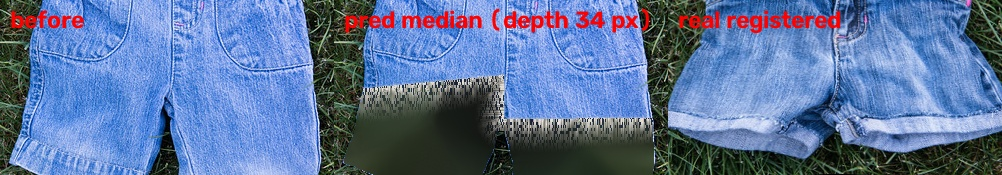
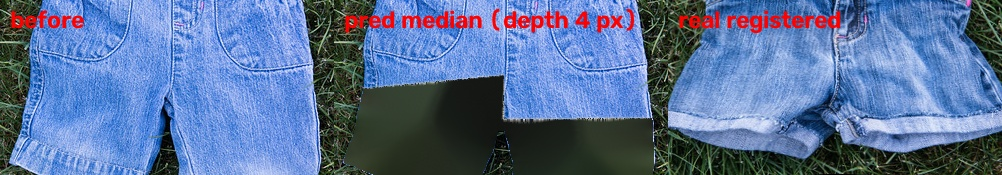
State-conditional fringe prior (after_cut vs after_wash); LOO batch rerun

Changed region(s): [[0.3403, 0.4286, 0.6497, 0.8286], [0.5569, 0.0286, 0.6497, 0.2]]

diff --git a/tools/run_pair.py b/tools/run_pair.py
@@ -21,6 +21,7 @@ p.add_argument("--before", required=True); p.add_argument("--after", required=Tr
 p.add_argument("--before-lm"); p.add_argument("--after-lm"); p.add_argument("--mm-per-px", type=float, default=None); p.add_argument("--seed", type=int, default=1)
 p.add_argument("--prior", help="data/priors/fringe.json: predict fringe depth from the prior (depth_rel_mean * waist width) instead of reading it off the after-photo")
 p.add_argument("--exclude", help="pair id to EXCLUDE from the prior (leave-one-out: never let a pair predict itself)")
+p.add_argument("--state", choices=["after_cut", "after_wash"], default="after_wash", help="what the after-photo shows; the fringe prior is conditional on it")
 p.add_argument("--cropped", default="", help="comma list of 'before'/'after' that were manually cropped: frame-edge contact becomes a flag, not a rejection")
 a = p.parse_args(); os.makedirs(a.out, exist_ok=True); O = a.out
 bf = cv2.imread(a.before); af = cv2.imread(a.after); assert bf is not None and af is not None
@@ -120,11 +121,12 @@ cut = backdrop_fill(bf, bmask, removed)   # backdrop-only inpainting, no fabric 
 depth_measured_px = np.mean([L["fringe_depth_px"] for L in legs.values() if L])
 if a.prior:
     pr = json.load(open(a.prior)); ww = abs(lmb["waist_right"][0] - lmb["waist_left"][0])
-    rows_ = [x for x in pr.get("pairs", []) if x["pair"] != a.exclude]
-    rel = np.mean([x["depth_rel"] for x in rows_]) if rows_ else pr["depth_rel_mean"]
-    if pr.get("unpaired", {}).get("n"):                      # blend with the unpaired after-wash distribution
+    rows_ = [x for x in pr.get("pairs", []) if x["pair"] != a.exclude and x["kind"] == a.state]      # same STATE, leave-one-out
+    rel = np.mean([x["depth_rel"] for x in rows_]) if rows_ else 0.0
+    if a.state == "after_wash" and pr.get("unpaired", {}).get("n"):   # unpaired samples are after-wash only
         nu = pr["unpaired"]["n"]; rel = (rel * len(rows_) + pr["unpaired"]["depth_rel_mean"] * nu) / (len(rows_) + nu)
-    depth_px = rel * ww; depth_source = f"prior (n={len(rows_)}{' after excluding self' if a.exclude else ''}{', INSUFFICIENT' if len(rows_) < 5 else ''})"
+    n_eff = len(rows_) + (pr.get("unpaired", {}).get("n", 0) if a.state == "after_wash" else 0)
+    depth_px = rel * ww; depth_source = f"prior[{a.state}] (n={n_eff}{' after excluding self' if a.exclude else ''}{', INSUFFICIENT' if n_eff < 5 else ''})"
 else:
     depth_px = depth_measured_px; depth_source = "measured from after-photo (NOT a prediction)"
 depth_mm = depth_px * mmpp

diff --git a/tools/fit_fringe.py b/tools/fit_fringe.py
@@ -28,8 +28,9 @@ prior = {"n": len(rows), "insufficient": len(rows) < 5, "pairs": rows}
 if rows:
     for k in ("depth_rel", "depth_px"):
         v = [r[k] for r in rows]; prior[k + "_mean"] = st.mean(v); prior[k + "_sd"] = st.pstdev(v) if len(v) > 1 else None
-    washed = [r["depth_rel"] for r in rows if r["kind"] == "after_wash"]
-    if washed: prior["depth_rel_mean_after_wash"] = st.mean(washed)
+    for kind in ("after_wash", "after_cut"):
+        v = [r["depth_rel"] for r in rows if r["kind"] == kind]
+        if v: prior[f"depth_rel_mean_{kind}"] = st.mean(v); prior[f"n_{kind}"] = len(v)
     if len(rows) >= 2:
         print("leave-one-out depth prediction (px):")
         for i, r in enumerate(rows):
@@ -38,7 +39,9 @@ if rows:
 up = OUT / "fringe_unpaired.json"
 if up.exists():
     u = json.load(open(up)); prior["unpaired"] = {"n": u["n"], "depth_rel_mean": u["depth_rel_mean"], "depth_rel_sd": u["depth_rel_sd"]}
-    if u["n"] and rows:
-        w_p, w_u = len(rows), u["n"]; prior["depth_rel_mean_combined"] = (prior["depth_rel_mean"] * w_p + u["depth_rel_mean"] * w_u) / (w_p + w_u); prior["n_combined"] = w_p + w_u
-        prior["insufficient"] = prior["n_combined"] < 5
+    # unpaired samples are all AFTER-WASH: they only inform the after_wash prior
+    if u["n"]:
+        wp = prior.get("n_after_wash", 0); mp = prior.get("depth_rel_mean_after_wash", 0.0)
+        prior["depth_rel_mean_after_wash_combined"] = (mp * wp + u["depth_rel_mean"] * u["n"]) / (wp + u["n"]); prior["n_after_wash_combined"] = wp + u["n"]
+        prior["insufficient"] = prior["n_after_wash_combined"] < 5 or prior.get("n_after_cut", 0) < 3
 (OUT / "fringe.json").write_text(json.dumps(prior, indent=1)); print(json.dumps({k: v for k, v in prior.items() if k != "pairs"}, indent=1))

diff --git a/tools/run_pairs_batch.py b/tools/run_pairs_batch.py
@@ -31,7 +31,7 @@ for line in (ROOT / "data/external/pairs_validation.jsonl").read_text().splitlin
         h8 = os.path.splitext(before)[0].rsplit("_", 1)[-1]
         mmpp = next((i.get("mm_per_px") for i in rec["images"] if h8 == hashlib.sha1(i["url"].encode()).hexdigest()[:8] and i.get("mm_per_px")), None)
     cmd = [sys.executable, str(ROOT / "tools/run_pair.py"), "--before", before_p, "--after", after_p, "--out", str(od)] + (["--cropped", cropped] if cropped else []) + (["--mm-per-px", str(mmpp)] if mmpp else [])
-    if os.environ.get("PAIRS_USE_PRIOR") and (ROOT / "data/priors/fringe.json").exists(): cmd += ["--prior", str(ROOT / "data/priors/fringe.json"), "--exclude", pid]   # leave-one-out
+    if os.environ.get("PAIRS_USE_PRIOR") and (ROOT / "data/priors/fringe.json").exists(): cmd += ["--prior", str(ROOT / "data/priors/fringe.json"), "--exclude", pid, "--state", kind]   # leave-one-out, state-conditional
     r = subprocess.run(cmd, capture_output=True, text=True)
     ok = r.returncode == 0
     metrics = None

diff --git a/experiments/pairs_prior/SUMMARY.md b/experiments/pairs_prior/SUMMARY.md
@@ -2,20 +2,20 @@
 
 | page | title | after | status | sil IoU pred / crop / no-op | chamfer px pred / crop | edge ΔE pred / crop | fringe IoU pred / no-op |
 |---|---|---|---|---|---|---|---|
-| b630a78c19 | How To Make Jeans Into Shorts The Easy W | after_cut | ok | 0.46 / 0.46 / 0.54 | 359 / 368 | 17.6 / 17.4 | 0.03 / 0.58 |
+| b630a78c19 | How To Make Jeans Into Shorts The Easy W | after_cut | ok | 0.46 / 0.46 / 0.54 | 364 / 368 | 17.5 / 17.4 | 0.02 / 0.58 |
 | 660bef67bf | Cómo hacer shorts con jeans viejos | after_cut | FAIL: REJECT: degenerate cut: removed fraction 0.00 | | | | |
 | 85d48013a2 | Tutorial: Aus Lang mach Kurz – Jeanshose | after_cut | FAIL: REJECT: after: garment touches the frame edge (cropped photo | | | | |
-| 4bfef03bd7 | DIY Denim Shorts | Thrifted Jeans Into S | after_wash | ok | 0.78 / 0.75 / 0.29 | 16 / 22 | 22.8 / 23.3 | 0.43 / 0.04 |
+| 4bfef03bd7 | DIY Denim Shorts | Thrifted Jeans Into S | after_wash | ok | 0.78 / 0.75 / 0.29 | 16 / 22 | 22.8 / 23.3 | 0.46 / 0.04 |
 | ee4bf13a3c | Magnolia Mamas: Fashion Fix: DIY Distres | after_wash | FAIL: REJECT: before: widest top row is not a single waistband run | | | | |
-| 8d9f0df4ad | This summer's DIY cut-off jeans shorts-- | after_cut | ok | 0.92 / 0.94 / 0.42 | 25 / 9 | 21.1 / 21.5 | 0.27 / 0.02 |
+| 8d9f0df4ad | This summer's DIY cut-off jeans shorts-- | after_cut | ok | 0.93 / 0.94 / 0.42 | 15 / 9 | 21.0 / 21.5 | 0.33 / 0.02 |
 | 963fcdd264 | DIY; Mom Jeans to High Waisted Shorts |  | after_cut | FAIL: REJECT: before: widest top row is not a single waistband run | | | | |
 | d52a3ff876 | Under Peach Trees: D.I.Y. Jeans to Short | after_cut | FAIL: REJECT: before: widest top row is not a single waistband run | | | | |
-| 443d1d4658 | Create Kids Couture: Upcycle Old Jeans i | after_cut | ok | 0.90 / 0.92 / 0.59 | 24 / 13 | 21.1 / 18.3 | 0.09 / 0.00 |
+| 443d1d4658 | Create Kids Couture: Upcycle Old Jeans i | after_cut | ok | 0.91 / 0.92 / 0.59 | 19 / 13 | 20.2 / 18.3 | 0.14 / 0.00 |
 | 3082dfddc1 | DIY style: perfectly distressed jean sho | after_wash | FAIL: REJECT: degenerate cut: removed fraction 0.88 | | | | |
 | 22a5857a0c | Comment transformer son jeans en short - | after_cut | FAIL: REJECT: after: garment touches the frame edge (cropped photo | | | | |
 | f9c0e56308 | 7 Easy Steps to: DIY Denim Shorts - 51li | after_wash | FAIL: REJECT: degenerate cut: removed fraction 0.76 | | | | |
-| 2691c1a8d0 | Jeans Upcycling: Shorts aus alter Jeans  | after_cut | ok | 0.70 / 0.69 / 0.58 | 24 / 27 | 15.7 / 15.1 | 0.42 / 0.10 |
+| 2691c1a8d0 | Jeans Upcycling: Shorts aus alter Jeans  | after_cut | ok | 0.70 / 0.69 / 0.58 | 25 / 27 | 15.3 / 15.1 | 0.30 / 0.10 |
 | 5cd6cff343 | Transformer un jean en short façon BD -  | after_cut | FAIL: REJECT: before: widest top row is not a single waistband run | | | | |
-| 26b1041d00 | Upcycle Jeans Into Shorts - Sewing Novic | after_cut | ok | 0.74 / 0.69 / 0.73 | 35 / 46 | 31.6 / 34.8 | 0.22 / 0.48 |
-| f542c57cec | DIY High Waisted Denim Shorts, Step-by-S | after_wash | ok | 0.70 / 0.68 / 0.51 | 116 / 128 | 28.7 / 26.8 | 0.15 / 0.22 |
+| 26b1041d00 | Upcycle Jeans Into Shorts - Sewing Novic | after_cut | ok | 0.69 / 0.69 / 0.73 | 46 / 46 | 34.6 / 34.8 | 0.01 / 0.48 |
+| f542c57cec | DIY High Waisted Denim Shorts, Step-by-S | after_wash | ok | 0.70 / 0.68 / 0.51 | 115 / 128 | 28.8 / 26.8 | 0.17 / 0.22 |
 | 2e2063b93f | DIY: Cutoff Shorts - The Fitnessista | after_cut | FAIL: REJECT: after: widest top row is not a single waistband run  | | | | |

diff --git a/experiments/pairs_prior/REPORT.md b/experiments/pairs_prior/REPORT.md
@@ -2,19 +2,19 @@
 
 | pair | reg resid | sil_iou_vs_real pred / crop / no-op | hem_chamfer pred / crop / no-op | dE_edge_band_vs_real pred / crop / no-op | fringe_iou_vs_real pred / crop / no-op | fringe_profile_dist pred / crop / no-op |
 |---|---|---|---|---|---|---|
-| 2691c1a8d0 | 86.8 | 0.70 / 0.69 / 0.58 | 24.29 / 27.28 / 100.45 | 15.72 / 15.05 / 17.47 | 0.42 / 0.00 / 0.10 | 0.02 / 0.06 / 0.94 |
-| 26b1041d00 | 14.6 | 0.74 / 0.69 / 0.73 | 34.56 / 46.18 / 48.06 | 31.55 / 34.84 / 25.41 | 0.22 / 0.00 / 0.48 | 0.32 / 0.41 / 0.59 |
-| 443d1d4658 | 6.4 | 0.90 / 0.92 / 0.59 | 23.81 / 13.44 / 190.55 | 21.13 / 18.34 / 21.37 | 0.09 / 0.00 / 0.00 | 0.04 / 0.00 / 1.00 |
-| 4bfef03bd7 | 42.0 | 0.78 / 0.75 / 0.29 | 15.50 / 21.99 / 503.38 | 22.78 / 23.33 / 20.45 | 0.43 / 0.00 / 0.04 | 0.00 / 0.03 / 0.97 |
-| 8d9f0df4ad | 31.2 | 0.92 / 0.94 / 0.42 | 24.67 / 8.66 / 303.39 | 21.06 / 21.53 / 22.66 | 0.27 / 0.00 / 0.02 | 0.03 / 0.01 / 0.99 |
-| b630a78c19 | 698.7 | 0.46 / 0.46 / 0.54 | 358.69 / 367.66 / 296.25 | 17.64 / 17.42 / 16.36 | 0.03 / 0.00 / 0.58 | 0.60 / 0.63 / 0.37 |
-| f542c57cec | 61.2 | 0.70 / 0.68 / 0.51 | 116.43 / 127.89 / 460.82 | 28.72 / 26.75 / 27.82 | 0.15 / 0.00 / 0.22 | 0.15 / 0.19 / 0.81 |
+| 2691c1a8d0 | 86.8 | 0.70 / 0.69 / 0.58 | 25.20 / 27.28 / 100.45 | 15.28 / 15.05 / 17.47 | 0.30 / 0.00 / 0.10 | 0.03 / 0.06 / 0.94 |
+| 26b1041d00 | 14.6 | 0.69 / 0.69 / 0.73 | 45.62 / 46.18 / 48.06 | 34.57 / 34.84 / 25.41 | 0.01 / 0.00 / 0.48 | 0.41 / 0.41 / 0.59 |
+| 443d1d4658 | 6.4 | 0.91 / 0.92 / 0.59 | 19.28 / 13.44 / 190.55 | 20.20 / 18.34 / 21.37 | 0.14 / 0.00 / 0.00 | 0.03 / 0.00 / 1.00 |
+| 4bfef03bd7 | 42.0 | 0.78 / 0.75 / 0.29 | 16.08 / 21.99 / 503.38 | 22.79 / 23.33 / 20.45 | 0.46 / 0.00 / 0.04 | 0.00 / 0.03 / 0.97 |
+| 8d9f0df4ad | 31.2 | 0.93 / 0.94 / 0.42 | 15.24 / 8.66 / 303.39 | 21.02 / 21.53 / 22.66 | 0.33 / 0.00 / 0.02 | 0.01 / 0.01 / 0.99 |
+| b630a78c19 | 698.7 | 0.46 / 0.46 / 0.54 | 363.58 / 367.66 / 296.25 | 17.49 / 17.42 / 16.36 | 0.02 / 0.00 / 0.58 | 0.62 / 0.63 / 0.37 |
+| f542c57cec | 61.2 | 0.70 / 0.68 / 0.51 | 114.51 / 127.89 / 460.82 | 28.82 / 26.75 / 27.82 | 0.17 / 0.00 / 0.22 | 0.14 / 0.19 / 0.81 |
 
 ## Means and prediction − crop-only deltas
-- sil_iou_vs_real: pred 0.741, crop 0.733, Δ +0.009 (n=7)
-- hem_chamfer: pred 85.420, crop 87.586, Δ -2.165 (n=7)
-- dE_edge_band_vs_real: pred 22.657, crop 22.467, Δ +0.190 (n=7)
-- fringe_iou_vs_real: pred 0.231, crop 0.000, Δ +0.231 (n=7)
-- fringe_profile_dist: pred 0.166, crop 0.191, Δ -0.026 (n=7)
+- sil_iou_vs_real: pred 0.738, crop 0.733, Δ +0.006 (n=7)
+- hem_chamfer: pred 85.646, crop 87.586, Δ -1.940 (n=7)
+- dE_edge_band_vs_real: pred 22.883, crop 22.467, Δ +0.416 (n=7)
+- fringe_iou_vs_real: pred 0.204, crop 0.000, Δ +0.204 (n=7)
+- fringe_profile_dist: pred 0.177, crop 0.191, Δ -0.014 (n=7)
 
 Rule: heuristic thresholds (hemfit/autolm) change only with n >= 5 and this table attached.

diff --git a/experiments/pairs_prior/4bfef03bd7/NOTE.md b/experiments/pairs_prior/4bfef03bd7/NOTE.md
@@ -5,14 +5,14 @@ before: /Users/jefferyhuang/denim-twin/data/external/pair_images/4bfef03bd7_befo
 after: /Users/jefferyhuang/denim-twin/data/external/pair_images/4bfef03bd7_after_wash_44ffba7e.jpeg collage split (stacked) at y=512, kept top
 scale: UNKNOWN (1.0 placeholder; mm values are px)
 landmarks: auto / auto (crotch: prior_legs_touching / gap)
-fringe depth used: 55.7 px from prior (n=3 after excluding self, INSUFFICIENT); measured on after-photo: 23.0 px (fabric/fringe split: SAM)
+fringe depth used: 66.7 px from prior[after_wash] (n=8 after excluding self); measured on after-photo: 23.0 px (fabric/fringe split: SAM)
 hem fit: left: angle -10.4°, depth 31, right: angle 4.5°, depth 15
 registration residual (leave-one-landmark-out): 42.01px
 
 | system | sil IoU | chamfer | edge ΔE | fringe IoU |
 |---|---|---|---|---|
-| pred conservative | 0.767 | 16.7 | 22.9 | 0.261 |
-| pred median | 0.775 | 15.5 | 22.8 | 0.432 |
-| pred aggressive | 0.774 | 18.2 | 22.6 | 0.475 |
+| pred conservative | 0.769 | 16.5 | 22.9 | 0.292 |
+| pred median | 0.776 | 16.1 | 22.8 | 0.459 |
+| pred aggressive | 0.768 | 21.5 | 22.7 | 0.462 |
 | null:no-op | 0.286 | 503.4 | 20.5 | 0.038 |
 | null:crop-only | 0.751 | 22.0 | 23.3 | 0.000 |

diff --git a/experiments/pairs_prior/b630a78c19/NOTE.md b/experiments/pairs_prior/b630a78c19/NOTE.md
@@ -5,14 +5,14 @@ before: /Users/jefferyhuang/denim-twin/data/external/pair_images/b630a78c19_befo
 after: /Users/jefferyhuang/denim-twin/data/external/pair_images/b630a78c19_after_cut_c7a4d702.jpg 
 scale: UNKNOWN (1.0 placeholder; mm values are px)
 landmarks: auto / auto (crotch: gap / gap)
-fringe depth used: 58.6 px from prior (n=4 after excluding self, INSUFFICIENT); measured on after-photo: 30.8 px (fabric/fringe split: SAM)
+fringe depth used: 29.4 px from prior[after_cut] (n=3 after excluding self, INSUFFICIENT); measured on after-photo: 30.8 px (fabric/fringe split: SAM)
 hem fit: left: angle -0.7°, depth 6, right: angle -20.2°, depth 56
 registration residual (leave-one-landmark-out): 41.30px
 
 | system | sil IoU | chamfer | edge ΔE | fringe IoU |
 |---|---|---|---|---|
-| pred conservative | 0.460 | 363.9 | 17.5 | 0.014 |
-| pred median | 0.461 | 358.7 | 17.6 | 0.033 |
-| pred aggressive | 0.462 | 354.9 | 17.7 | 0.051 |
+| pred conservative | 0.459 | 366.1 | 17.4 | 0.007 |
+| pred median | 0.460 | 363.6 | 17.5 | 0.016 |
+| pred aggressive | 0.460 | 361.3 | 17.5 | 0.025 |
 | null:no-op | 0.536 | 296.2 | 16.4 | 0.582 |
 | null:crop-only | 0.459 | 367.7 | 17.4 | 0.000 |

diff --git a/experiments/pairs_prior/2691c1a8d0/NOTE.md b/experiments/pairs_prior/2691c1a8d0/NOTE.md
@@ -5,14 +5,14 @@ before: /Users/jefferyhuang/denim-twin/data/external/pair_images/2691c1a8d0_befo
 after: /Users/jefferyhuang/denim-twin/data/external/pair_images/2691c1a8d0_after_cut_b2330819.jpg 
 scale: UNKNOWN (1.0 placeholder; mm values are px)
 landmarks: auto / auto (crotch: gap / gap)
-fringe depth used: 40.7 px from prior (n=4 after excluding self, INSUFFICIENT); measured on after-photo: 31.8 px (fabric/fringe split: SAM)
+fringe depth used: 20.4 px from prior[after_cut] (n=3 after excluding self, INSUFFICIENT); measured on after-photo: 31.8 px (fabric/fringe split: SAM)
 hem fit: left: angle -36.4°, depth 2, right: angle -48.2°, depth 62
 registration residual (leave-one-landmark-out): 86.85px
 
 | system | sil IoU | chamfer | edge ΔE | fringe IoU |
 |---|---|---|---|---|
-| pred conservative | 0.700 | 25.4 | 15.2 | 0.257 |
-| pred median | 0.703 | 24.3 | 15.7 | 0.421 |
-| pred aggressive | 0.702 | 25.1 | 16.0 | 0.436 |
+| pred conservative | 0.698 | 26.2 | 15.0 | 0.137 |
+| pred median | 0.701 | 25.2 | 15.3 | 0.302 |
+| pred aggressive | 0.703 | 24.1 | 15.4 | 0.379 |
 | null:no-op | 0.579 | 100.5 | 17.5 | 0.101 |
 | null:crop-only | 0.694 | 27.3 | 15.1 | 0.000 |

diff --git a/experiments/pairs_prior/26b1041d00/NOTE.md b/experiments/pairs_prior/26b1041d00/NOTE.md
@@ -5,14 +5,14 @@ before: /Users/jefferyhuang/denim-twin/data/external/pair_images/26b1041d00_befo
 after: /Users/jefferyhuang/denim-twin/data/external/pair_images/26b1041d00_after_cut_38ff38d5.jpg 
 scale: UNKNOWN (1.0 placeholder; mm values are px)
 landmarks: auto / auto (crotch: gap / gap)
-fringe depth used: 33.7 px from prior (n=3 after excluding self, INSUFFICIENT); measured on after-photo: 45.0 px (fabric/fringe split: SAM)
+fringe depth used: 3.5 px from prior[after_cut] (n=2 after excluding self, INSUFFICIENT); measured on after-photo: 45.0 px (fabric/fringe split: SAM)
 hem fit: left: angle -5.4°, depth 64, right: angle -0.7°, depth 26
 registration residual (leave-one-landmark-out): 14.59px
 
 | system | sil IoU | chamfer | edge ΔE | fringe IoU |
 |---|---|---|---|---|
-| pred conservative | 0.706 | 41.7 | 33.3 | 0.086 |
-| pred median | 0.736 | 34.6 | 31.6 | 0.225 |
-| pred aggressive | 0.759 | 28.6 | 30.6 | 0.332 |
+| pred conservative | 0.688 | 46.1 | 34.7 | 0.002 |
+| pred median | 0.690 | 45.6 | 34.6 | 0.010 |
+| pred aggressive | 0.692 | 45.1 | 34.4 | 0.019 |
 | null:no-op | 0.732 | 48.1 | 25.4 | 0.480 |
 | null:crop-only | 0.688 | 46.2 | 34.8 | 0.000 |

diff --git a/experiments/pairs_prior/f542c57cec/NOTE.md b/experiments/pairs_prior/f542c57cec/NOTE.md
@@ -5,14 +5,14 @@ before: /Users/jefferyhuang/denim-twin/experiments/pairs_prior/f542c57cec/croppe
 after: /Users/jefferyhuang/denim-twin/data/external/pair_images/f542c57cec_after_wash_9c55600a.jpg 
 scale: UNKNOWN (1.0 placeholder; mm values are px)
 landmarks: auto / auto (crotch: gap / gap)
-fringe depth used: 83.0 px from prior (n=4 after excluding self, INSUFFICIENT); measured on after-photo: 112.0 px (fabric/fringe split: SAM)
+fringe depth used: 96.9 px from prior[after_wash] (n=9 after excluding self); measured on after-photo: 112.0 px (fabric/fringe split: SAM)
 hem fit: left: angle 1.9°, depth 4, right: angle -1.4°, depth 220
 registration residual (leave-one-landmark-out): 61.19px
 
 | system | sil IoU | chamfer | edge ΔE | fringe IoU |
 |---|---|---|---|---|
-| pred conservative | 0.687 | 122.4 | 28.3 | 0.066 |
-| pred median | 0.700 | 116.4 | 28.7 | 0.147 |
-| pred aggressive | 0.709 | 111.9 | 29.0 | 0.206 |
+| pred conservative | 0.689 | 121.7 | 28.3 | 0.076 |
+| pred median | 0.703 | 114.5 | 28.8 | 0.169 |
+| pred aggressive | 0.713 | 109.9 | 29.1 | 0.235 |
 | null:no-op | 0.514 | 460.8 | 27.8 | 0.224 |
 | null:crop-only | 0.676 | 127.9 | 26.8 | 0.000 |

diff --git a/experiments/pairs_prior/8d9f0df4ad/NOTE.md b/experiments/pairs_prior/8d9f0df4ad/NOTE.md
@@ -5,14 +5,14 @@ before: /Users/jefferyhuang/denim-twin/data/external/pair_images/8d9f0df4ad_befo
 after: /Users/jefferyhuang/denim-twin/data/external/pair_images/8d9f0df4ad_after_cut_ed6196cc.JPG 
 scale: UNKNOWN (1.0 placeholder; mm values are px)
 landmarks: auto / auto (crotch: gap / gap)
-fringe depth used: 91.6 px from prior (n=3 after excluding self, INSUFFICIENT); measured on after-photo: 4.0 px (fabric/fringe split: SAM)
+fringe depth used: 61.4 px from prior[after_cut] (n=2 after excluding self, INSUFFICIENT); measured on after-photo: 4.0 px (fabric/fringe split: SAM)
 hem fit: left: angle 14.1°, depth 7, right: angle -14.8°, depth 1
 registration residual (leave-one-landmark-out): 31.22px
 
 | system | sil IoU | chamfer | edge ΔE | fringe IoU |
 |---|---|---|---|---|
-| pred conservative | 0.941 | 10.4 | 21.0 | 0.341 |
-| pred median | 0.919 | 24.7 | 21.1 | 0.269 |
-| pred aggressive | 0.895 | 40.2 | 21.6 | 0.198 |
+| pred conservative | 0.944 | 8.8 | 21.0 | 0.318 |
+| pred median | 0.934 | 15.2 | 21.0 | 0.335 |
+| pred aggressive | 0.919 | 24.8 | 21.3 | 0.267 |
 | null:no-op | 0.421 | 303.4 | 22.7 | 0.015 |
 | null:crop-only | 0.943 | 8.7 | 21.5 | 0.000 |

diff --git a/experiments/pairs_prior/443d1d4658/NOTE.md b/experiments/pairs_prior/443d1d4658/NOTE.md
@@ -5,14 +5,14 @@ before: /Users/jefferyhuang/denim-twin/data/external/pair_images/443d1d4658_befo
 after: /Users/jefferyhuang/denim-twin/experiments/pairs_prior/443d1d4658/cropped_after_cut.png 
 scale: given
 landmarks: auto / auto (crotch: gap / gap)
-fringe depth used: 52.0 px from prior (n=3 after excluding self, INSUFFICIENT); measured on after-photo: 7.8 px (fabric/fringe split: colour split)
+fringe depth used: 32.5 px from prior[after_cut] (n=2 after excluding self, INSUFFICIENT); measured on after-photo: 7.8 px (fabric/fringe split: colour split)
 hem fit: left: angle 11.4°, depth 13, right: angle -11.3°, depth 2
 registration residual (leave-one-landmark-out): 6.42px
 
 | system | sil IoU | chamfer | edge ΔE | fringe IoU |
 |---|---|---|---|---|
-| pred conservative | 0.911 | 17.0 | 19.4 | 0.181 |
-| pred median | 0.896 | 23.8 | 21.1 | 0.090 |
-| pred aggressive | 0.883 | 31.7 | 21.4 | 0.059 |
+| pred conservative | 0.915 | 14.9 | 18.9 | 0.224 |
+| pred median | 0.906 | 19.3 | 20.2 | 0.137 |
+| pred aggressive | 0.899 | 22.6 | 21.0 | 0.098 |
 | null:no-op | 0.587 | 190.6 | 21.4 | 0.005 |
 | null:crop-only | 0.918 | 13.4 | 18.3 | 0.000 |
